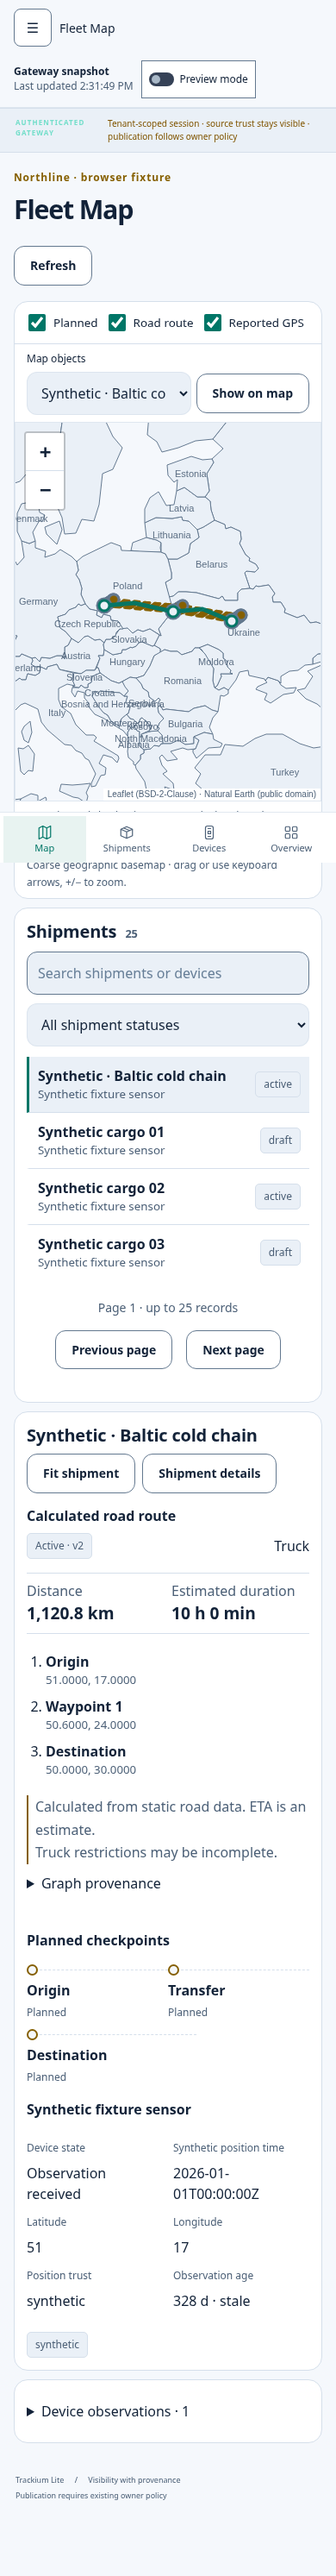
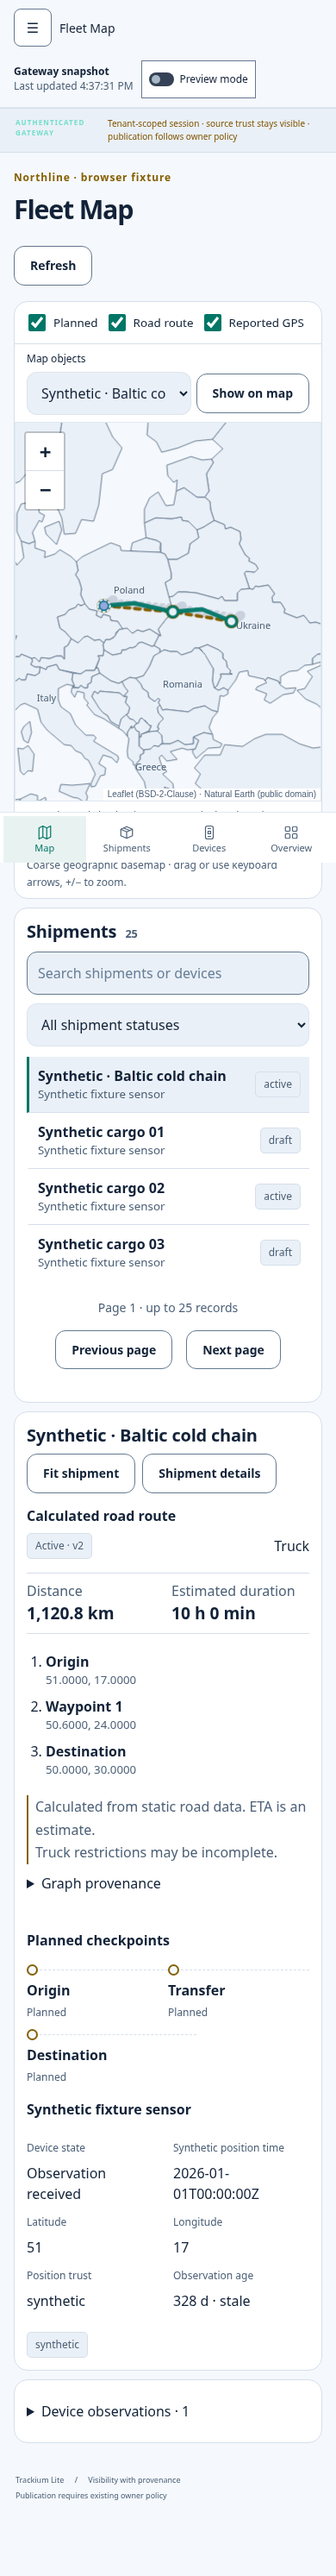
Polish Fleet Map label density and mobile navigation clearance

Changed region(s): [[0.1538, 0.1869, 0.7692, 0.3115], [0.0615, 0.2492, 0.1231, 0.3115], [0.0923, 0.1869, 0.1231, 0.218]]

diff --git a/assets/v2/workspace-components.js b/assets/v2/workspace-components.js
@@ -235,6 +235,55 @@
     return geometry;
   }
 
+  function placeCountryLabels(map, countries) {
+    const labels = L.layerGroup().addTo(map);
+    const candidates = [];
+    const metrics = document.createElement('canvas').getContext('2d');
+    metrics.font = '11px system-ui';
+    countries.eachLayer(layer => {
+      const props = layer.feature.properties;
+      const name = props.NAME_EN || props.NAME;
+      const anchor = {latitude:props.LABEL_Y,longitude:props.LABEL_X};
+      if (name) candidates.push({
+        name, center:valid(anchor) ? [anchor.latitude,anchor.longitude] : layer.getBounds().getCenter(),
+        width:Math.ceil(metrics.measureText(name).width) + 8,
+        rank:props.LABELRANK, population:props.POP_EST
+      });
+    });
+    candidates.sort((a,b) => a.rank-b.rank || b.population-a.population);
+    let previous = '';
+    function layout() {
+      const size = map.getSize(), zoom = map.getZoom(), center = map.getCenter();
+      const signature = [zoom,center.lat,center.lng,size.x,size.y].join('/');
+      if (signature === previous) return;
+      previous = signature;
+      const narrow = size.x < 420;
+      const limit = narrow ? (zoom <= 5 ? 5 : 8) : 20;
+      const height = 16, margin = 4;
+      const taken = [];
+      labels.clearLayers();
+      if (zoom < 4) return;
+      for (const candidate of candidates) {
+        const point = map.latLngToContainerPoint(candidate.center);
+        const left = point.x - candidate.width/2, top = point.y - height/2;
+        const right = left + candidate.width, bottom = top + height;
+        if (left < 8 || right > size.x-8 || top < 8 || bottom > size.y-30 ||
+            (left < 56 && top < 82)) continue;
+        if (taken.some(box => left < box.right+margin && right+margin > box.left &&
+            top < box.bottom+margin && bottom+margin > box.top)) continue;
+        taken.push({left,top,right,bottom});
+        L.marker(candidate.center,{
+          pane:'fleetCountryLabels', interactive:false, keyboard:false,
+          icon:L.divIcon({className:'fleet-country-label',html:esc(candidate.name),
+            iconSize:[candidate.width,height], iconAnchor:[candidate.width/2,height/2]})
+        }).addTo(labels);
+        if (taken.length >= limit) break;
+      }
+    }
+    map.on('moveend resize', layout);
+    return layout;
+  }
+
   let mapInstance = null, mapContainer = null, countries = null, mapStyle = '',
     lastView = null, currentPage = null, syncRoadStyle = null;
   const mapLayers = new Map();
@@ -270,6 +319,7 @@
       land = style.getPropertyValue('--tc-surface-raised').trim(),
       outline = style.getPropertyValue('--tc-outline').trim();
     const fresh = mapContainer !== el;
+    let layoutLabels;
     if (fresh) {
       beforeRender(false);
       currentPage = page;
@@ -281,9 +331,17 @@
         markerZoomAnimation: false, minZoom: 1, maxZoom: roadEnabled ? 19 : 12, attributionControl: true
       }).setView([25, 10], 2);
       mapContainer = el;
-      if (roadEnabled) mapInstance.createPane('trackiumGeography').style.zIndex = '190';
+      if (roadEnabled || fleet) mapInstance.createPane('trackiumGeography').style.zIndex = '190';
+      if (fleet) {
+        for (const [name, z] of Object.entries({fleetCountryLabels:390,fleetOverview:400,
+          fleetPlan:410,fleetRoad:420,fleetPositions:430}))
+          mapInstance.createPane(name).style.zIndex = String(z);
+        const updateDensity = () => el.classList.toggle('fleet-wide-view',mapInstance.getZoom() <= 7);
+        mapInstance.on('zoomend',updateDensity);
+        updateDensity();
+      }
       countries = L.geoJSON(root.TrackiumWorldMap, {
-        interactive: false, className: 'workspace-map-land', pane: roadEnabled ? 'trackiumGeography' : 'overlayPane'
+        interactive: false, className: 'workspace-map-land', pane: roadEnabled || fleet ? 'trackiumGeography' : 'overlayPane'
       }).addTo(mapInstance);
       if (roadEnabled) {
         const media = matchMedia('(prefers-color-scheme: dark)');
@@ -313,9 +371,11 @@
       }
       mapInstance.attributionControl.setPrefix('');
       mapInstance.attributionControl.addAttribution('Leaflet (BSD-2-Clause) · Natural Earth (public domain)');
-      mapInstance.on('zoomend', countryLabels);
+      if (fleet) layoutLabels = placeCountryLabels(mapInstance,countries);
+      else mapInstance.on('zoomend', countryLabels);
     }
     const map = mapInstance;
+    if (fleet) el.classList.toggle('fleet-has-selection',Boolean(fleet.selected));
     syncRoadStyle?.();
     const planColor = document.documentElement.classList.contains('lite-workspace')
       ? style.getPropertyValue('--tc-gold').trim() : accent;
@@ -353,23 +413,27 @@
     }
     const bounds = [];
     if (fleet?.layers.planned !== false) for (const s of (page === 'dashboard' ? data.shipments.filter(s => s.status === 'active') : data.shipments)) {
+      const selected = fleet?.selected === s.id;
+      const pane = !fleet ? 'overlayPane' : selected ? 'fleetPlan' : 'fleetOverview';
+      const muted = fleet && !selected;
       const points = (s.route || []).filter(valid).map((p) => [p.latitude, p.longitude]);
       bounds.push(...points);
       const details = '<button class="button secondary" data-server-action="view-shipment" data-server-id="' +
         esc(s.id) + '">Shipment details</button>';
       if (points.length)
-        place('shipment:' + s.id, JSON.stringify([points,s.name,planColor,fleet?.selected === s.id]), () =>
-          L.polyline(points, { color: planColor, weight: fleet?.selected === s.id ? 4 : 3,
-              opacity: fleet?.selected && fleet.selected !== s.id ? .24 : .9, dashArray: '6 6' })
+        place('shipment:' + s.id, JSON.stringify([points,s.name,planColor,outline,selected]), () =>
+          L.polyline(points, { pane, color: muted ? outline : planColor, weight: !fleet ? 3 : muted ? 2 : 4,
+              opacity: fleet ? 1 : .9, dashArray: muted ? '3 5' : '6 6' })
             .bindPopup('<p>Planned route · ' + esc(s.name) + '</p>' + details, { minWidth: 170 }));
       for (const [index, stop] of (s.route || []).entries()) {
         if (!valid(stop)) continue;
         const kind = index === 0 ? 'Origin' : index === s.route.length - 1 ? 'Destination' : 'Checkpoint';
         const select = fleet ? '<button class="button secondary" data-fleet-shipment="' +
           esc(s.id) + '">Select shipment</button>' : '';
-        place('stop:' + s.id + ':' + index, JSON.stringify([stop,kind,outline,planColor,fleet?.selected === s.id]), () =>
-          L.circleMarker([stop.latitude,stop.longitude], { className: 'ux-route-stop', radius: fleet?.selected === s.id ? 8 : 6, color: outline, fillColor: planColor,
-              fillOpacity: fleet?.selected && fleet.selected !== s.id ? .25 : .85 })
+        place('stop:' + s.id + ':' + index, JSON.stringify([stop,kind,outline,planColor,selected]), () =>
+          L.circleMarker([stop.latitude,stop.longitude], { pane,className:'ux-route-stop',radius:!fleet ? 6 : muted ? 4 : 7,
+              color:!fleet || muted ? outline : planColor, weight:fleet ? 2 : 3,
+              fillColor:!fleet ? planColor : muted ? outline : land,fillOpacity:fleet ? 1 : .85 })
             .bindPopup('<p>' + kind + ' · ' + esc(stop.name) + '</p>' + select + details, { minWidth: 170 }));
       }
     }
@@ -378,11 +442,11 @@
     if (geometry) {
       const signature = revision.id + '/' + accent;
       place('road:' + fleet.selected, signature, () =>
-        L.polyline(geometry, {color:accent, weight:5, opacity:.95, className:'fleet-road-line', interactive:false}));
+        L.polyline(geometry, {pane:'fleetRoad',color:accent, weight:5, opacity:.95, className:'fleet-road-line', interactive:false}));
       for (const [index, stop] of revision.stops.entries()) {
         const title = index === 0 ? 'Road origin' : index === revision.stops.length - 1 ? 'Road destination' : 'Road waypoint ' + index;
         place('road-stop:' + index, signature, () => L.circleMarker([stop.latitude,stop.longitude],
-          {className:'fleet-road-stop',radius:6,color:accent,fillColor:land,fillOpacity:1}).bindPopup(title));
+          {pane:'fleetRoad',className:'fleet-road-stop',radius:6,color:accent,fillColor:land,fillOpacity:1}).bindPopup(title));
       }
     }
     if (fleet?.layers.observed !== false) for (const d of data.devices) {
@@ -392,6 +456,7 @@
       bounds.push(p);
       const stale = Date.now() - Date.parse(obs.occurred_at) > 15 * 60 * 1000;
       place('device:' + d.registry.id, JSON.stringify([obs,d.registry.label,stale,signalColor]), () => L.circleMarker(p, {
+        pane: fleet ? 'fleetPositions' : 'overlayPane',
         className: 'ux-device-position' + (stale ? ' fleet-stale-fix' : ''),
         radius: 7,
         color: signalColor,
@@ -421,8 +486,9 @@
     if (fresh) {
       if (lastView?.page === page) map.setView(lastView.center, lastView.zoom);
       else if (bounds.length) map.fitBounds(bounds, { padding: [30, 30], maxZoom: 7 });
-      countryLabels();
       map.invalidateSize();
+      if (layoutLabels) layoutLabels();
+      else countryLabels();
     }
     function countryLabels() {
       countries.eachLayer((layer) => {

diff --git a/assets/v2/cargo.css b/assets/v2/cargo.css
@@ -3787,14 +3787,18 @@ h1,h2,h3 {overflow-wrap:anywhere;}
   .lite-workspace .page-heading { margin-bottom: 18px; padding-bottom: 15px; }
   .lite-workspace .topbar .breadcrumb-root { display: none; }
   .lite-workspace .detail-dialog { width: calc(100% - 20px); padding: 14px; }
-  .lite-workspace.lite-session .workspace-main { padding-bottom: calc(64px + env(safe-area-inset-bottom)); }
+  .lite-workspace.lite-session { --lite-safe-bottom: env(safe-area-inset-bottom, 0px); }
+  .lite-workspace.lite-session .workspace-main { padding-bottom: calc(64px + var(--lite-safe-bottom)); }
+  .lite-workspace.lite-session:has(.fleet-map-workspace) {
+    scroll-padding-block-end: calc(72px + var(--lite-safe-bottom));
+  }
   .lite-workspace.lite-session .lite-bottom-nav {
     position: fixed;
     z-index: 30;
     inset: auto 0 0;
     display: grid;
     grid-template-columns: repeat(4, minmax(0, 1fr));
-    padding: 4px 4px env(safe-area-inset-bottom);
+    padding: 4px 4px var(--lite-safe-bottom);
     background: var(--tc-surface);
     border-top: 1px solid var(--lite-border);
   }
@@ -4253,4 +4257,16 @@ h1,h2,h3 {overflow-wrap:anywhere;}
   }
   .fleet-map-canvas .ops-map-tools label { grid-column: 1/-1; }
   .fleet-map-canvas .ops-map-tools select { min-inline-size: 0; }
+}
+
+/* Composite the entire overview once so coincident plans cannot build opacity. */
+.fleet-map-canvas .leaflet-fleetOverview-pane { opacity: .65; }
+.fleet-wide-view .leaflet-fleetOverview-pane { opacity: .50; }
+.fleet-has-selection .leaflet-fleetOverview-pane { opacity: .36; }
+.fleet-has-selection.fleet-wide-view .leaflet-fleetOverview-pane { opacity: .25; }
+.fleet-country-label {
+  color: var(--tc-text-secondary);
+  text-align: center;
+  font: 11px/16px system-ui;
+  white-space: nowrap;
 }

diff --git a/docs/FLEET_MAP_V2.md b/docs/FLEET_MAP_V2.md
@@ -26,8 +26,27 @@ TRACKIUM_FLEET_SCREENSHOTS=/tmp/trackium-fleet-captures \
   node --test tests/minidapp/fleet-map.test.cjs
 ```
 
-Install Playwright and Chromium using the MiniDapp workflow setup or the existing local UI environment. Recorded selection-to-visible times were 117 ms at 1440 px, 67 ms at 768 px, 50 ms at 390 px and 44 ms at 320 px. Timing includes browser interaction, intercepted Gateway reads and DOM/Leaflet work. It samples a single headless run at each viewport. It does not measure physical Android, production traffic or road engine latency.
+Install Playwright and Chromium using the MiniDapp workflow setup or the existing local UI environment. Recorded selection-to-visible times were 204 ms at 1440 px, 325 ms at 768 px, 212 ms at 390 px and 137 ms at 320 px. Timing includes browser interaction, intercepted Gateway reads and DOM/Leaflet work. It samples a single headless run at each viewport. It does not measure physical Android, production traffic or road engine latency.
 
 ## Next stages
 
 C2 can build route authoring around the existing shipment, ordered stops and B2 calculation contract. C3 can add proposal history and approval/activation controls around B3's generation checks and role restrictions. Physical Android interaction and production capacity acceptance remain separate.
+
+## C1 final map-legibility acceptance
+
+Natural Earth country names use the dataset's label anchors and priority ranks. Leaflet projects the candidates into the current viewport and labels reserve non-overlapping padded boxes. Narrow canvases limit labels to five at zoom 4–5 and eight at closer zooms. The initial layout and subsequent map movement, zoom or resize drive placement. A stationary polling cycle retains the existing label nodes.
+
+The fleet overview composites its neutral, thin planned paths and smaller stops in a single translucent Leaflet pane. Overlapping routes cannot add opacity across the pane. Selection further dims that pane, while the selected planned route stays gold and dashed above it. The solid mint B3 road route and its stops sit above both planned layers. All 25 plans and 75 checkpoints remain in the map and selectable. Layer toggles remain independent.
+
+| Mobile viewport | Labels at the fixture route | Route and checkpoint evidence | Scroll and touch evidence |
+| --- | --- | --- | --- |
+| 320 px | 5 with no bounding-box intersections | 72 background and 3 selected planned stops, 3 road stops | 13 px clear above navigation after scrolling to the caption, both with no inset and a simulated 24 px inset |
+| 390 px | 5 with no bounding-box intersections | 72 background and 3 selected planned stops, 3 road stops | 13 px clear above navigation after scrolling to the caption, both with no inset and a simulated 24 px inset |
+
+Before the fix, aligning a map action to the viewport's lower edge put it behind the fixed bottom navigation at both widths. Fleet Map now reserves a scroll inset from the existing bar and safe-area values. The browser test uses actual hit testing, scroll alignment and taps on map zoom and device controls. Full-page captures show the fixed navigation at the initial viewport boundary. The scrolled viewport captures show the caption and controls above the bar.
+
+- 320 px [Light](fleet-map-c1/fleet-light-320.png) · [Dark](fleet-map-c1/fleet-dark-320.png) · [Scrolled viewport with simulated safe area](fleet-map-c1/fleet-safe-area-320.png)
+- 390 px [Light](fleet-map-c1/fleet-light-390.png) · [Dark](fleet-map-c1/fleet-dark-390.png) · [Scrolled viewport with simulated safe area](fleet-map-c1/fleet-safe-area-390.png)
+- 1440 px [Light](fleet-map-c1/fleet-light-1440.png) · [Dark](fleet-map-c1/fleet-dark-1440.png)
+
+The safe-area measurement uses a controlled CSS inset in Chromium. Physical handset cutouts and the production WebView remain separate acceptance checks.
